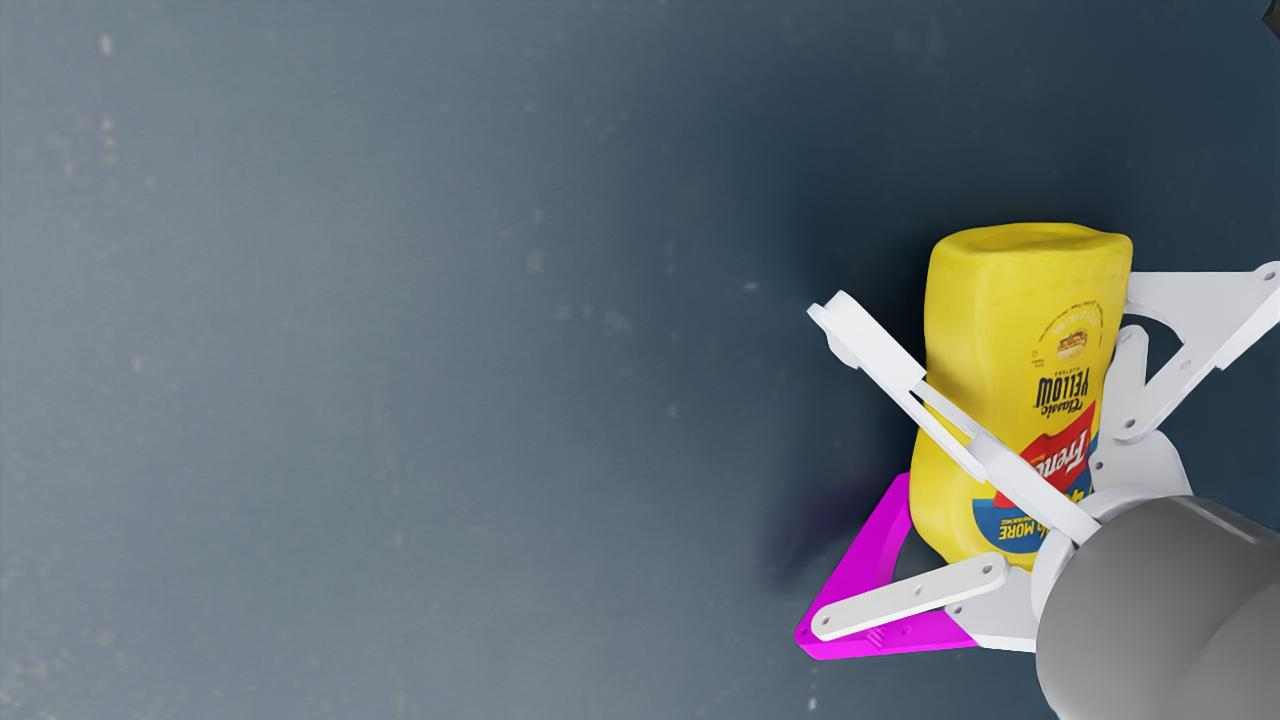
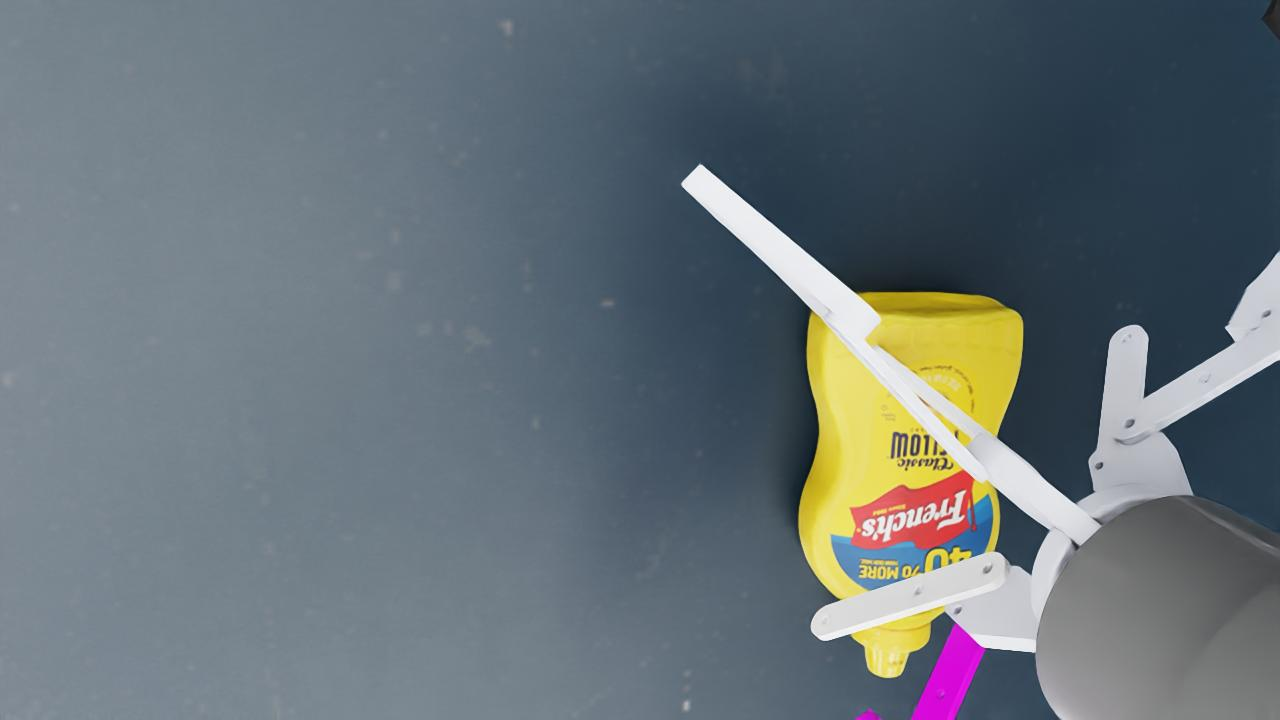
ascend after gripping

Changed region(s): [[0.5312, 0.2139, 1.0, 1.0], [0.9375, 0.7028, 0.9688, 0.7333]]

diff --git a/src/mapReader/mapReader/llava_controller.py b/src/mapReader/mapReader/llava_controller.py
@@ -174,6 +174,7 @@ class LlavaController(Node):
         self.get_logger().info('Llava Controller Node Started. Waiting for /droneCamera messages...')
         self.prev_buttons = None
         self.directory_name = ''
+        self.isGripClosed = False
         self.images_dir = ''
         self.system_message="""You are a vision-language control model for a drone with a gripper.
 
@@ -287,6 +288,16 @@ Schema:
         self.currentImage['droneArmCamera'] = cv_image
 
     def GripCamera_callback(self, msg):
+        if self.isGripClosed:
+            if self.current_pose.pose.position.z < 2.0:
+                command={}
+                command["type"] = "drone"
+                command["activity"] = "move"
+                command["displacement"] = {"x": 0.0, "y": 0.0, "z": 0.2, "yaw": 0.0}
+                self.write_to_pose(command)
+            # else:
+            return
+        
         cv_image = self.bridge.imgmsg_to_cv2(msg, desired_encoding='bgr8')
         self.currentImage['GripCamera'] = cv_image
         rgb_image = cv2.cvtColor(cv_image, cv2.COLOR_BGR2RGB)
@@ -314,34 +325,57 @@ Schema:
         #     command["displacement"] = {"x": 0.0, "y": 0.0, "z": -0.05, "yaw": 0.0}
         # elif textAction["direction"]=="up":
         #     command["displacement"] = {"x": 0.0, "y": 0.0, "z": 0.05, "yaw": 0.0}
+        if self.current_pose.pose.position.z < 0.5:
+            disp = 0.02
+        else:
+            disp = 0.05
         if textAction["direction"]=="left":
-            command["displacement"] = {"x": -0.05, "y": 0.0, "z": 0.0, "yaw": 0.0}
+            command["displacement"] = {"x": -disp, "y": 0.0, "z": 0.0, "yaw": 0.0}
         elif textAction["direction"]=="right":
-            command["displacement"] = {"x": 0.05, "y": 0.0, "z": 0.0, "yaw": 0.0}
-        elif textAction["direction"]=="backward":
-            command["displacement"] = {"x": 0.0, "y": 0.05, "z": 0.0, "yaw": 0.0}
-        elif textAction["direction"]=="forward":
-            command["displacement"] = {"x": 0.0, "y": -0.05, "z": 0.0, "yaw": 0.0}
+            command["displacement"] = {"x": disp, "y": 0.0, "z": 0.0, "yaw": 0.0}
+        elif textAction["direction"]=="above":
+            command["displacement"] = {"x": 0.0, "y": disp, "z": 0.0, "yaw": 0.0}
+        elif textAction["direction"]=="below":
+            command["displacement"] = {"x": 0.0, "y": -disp, "z": 0.0, "yaw": 0.0}
         else:
             if textAction["centered"]==True:
-                if self.current_pose.pose.position.z > 0.15:
+                if self.current_pose.pose.position.z > 0.20:
                     command["displacement"] = {"x": 0.0, "y": 0.0, "z": -0.05, "yaw": 0.0}
                 else:
                     command["displacement"] = {"x": 0.0, "y": 0.0, "z": 0.0, "yaw": 0.0}
                     command["activity"] = "close"
                     command["type"] = "gripper"
+                    
             else:
                 command["displacement"] = {"x": 0.0, "y": 0.0, "z": 0.0, "yaw": 0.0}
 
         return command
+    
+    def wait(self, seconds):
+        serverUrl = "http://192.168.209.86:8000/"
+        endPoint= "dummyWait"
+        headers = {
+            "accept": "application/json",
+            "Content-Type": "application/x-www-form-urlencoded"
+        }
+        try:
+            data = {
+                "seconds": seconds
+            }
+            response = requests.post(serverUrl+endPoint, data=data, headers=headers)
+            return {}
+        except Exception as e:
+            self.get_logger().error(f"Error during request: {e}")
+            return {}
 
 
     def get_from_server(self, image):
         isText = True
         serverUrl = "http://192.168.209.86:8000/"
-        endPoint= "predictQwen"
+        QwenendPoint= "predictQwen"
+        LlavaendPoint= "predictLLava"
         try:
-            response = requests.post(serverUrl+endPoint, files={"image": open("debug_image.jpg", "rb"), "image2": open("debug_droneArm_image.jpg", "rb")})
+            response = requests.post(serverUrl+QwenendPoint, files={"image": open("debug_image.jpg", "rb"), "image2": open("debug_droneArm_image.jpg", "rb")})
             if response.status_code == 200:
                 data = response.json()
                 if isText:
@@ -359,6 +393,8 @@ Schema:
         if msg['type'] == "gripper" and msg['activity'] == "close":
             self.grip_pose.pose.position.z = -60.0
             self.grip_publisher.publish(self.grip_pose)
+            self.isGripClosed = True
+            self.wait(5)
             return
         # Get the current time
         now = self.get_clock().now()
